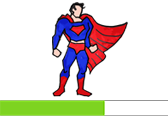
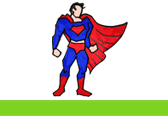
input new still cards provided by clients

Changed region(s): [[0.0, 0.8534, 1.0, 1.0]]

diff --git a/app/common/stylesheets/application.css b/app/common/stylesheets/application.css
@@ -51,7 +51,7 @@
 
 .animations {
     max-width: 100%;
-    max-height: 96%;
+    max-height: 100%;
 }
 
 .title-img {
